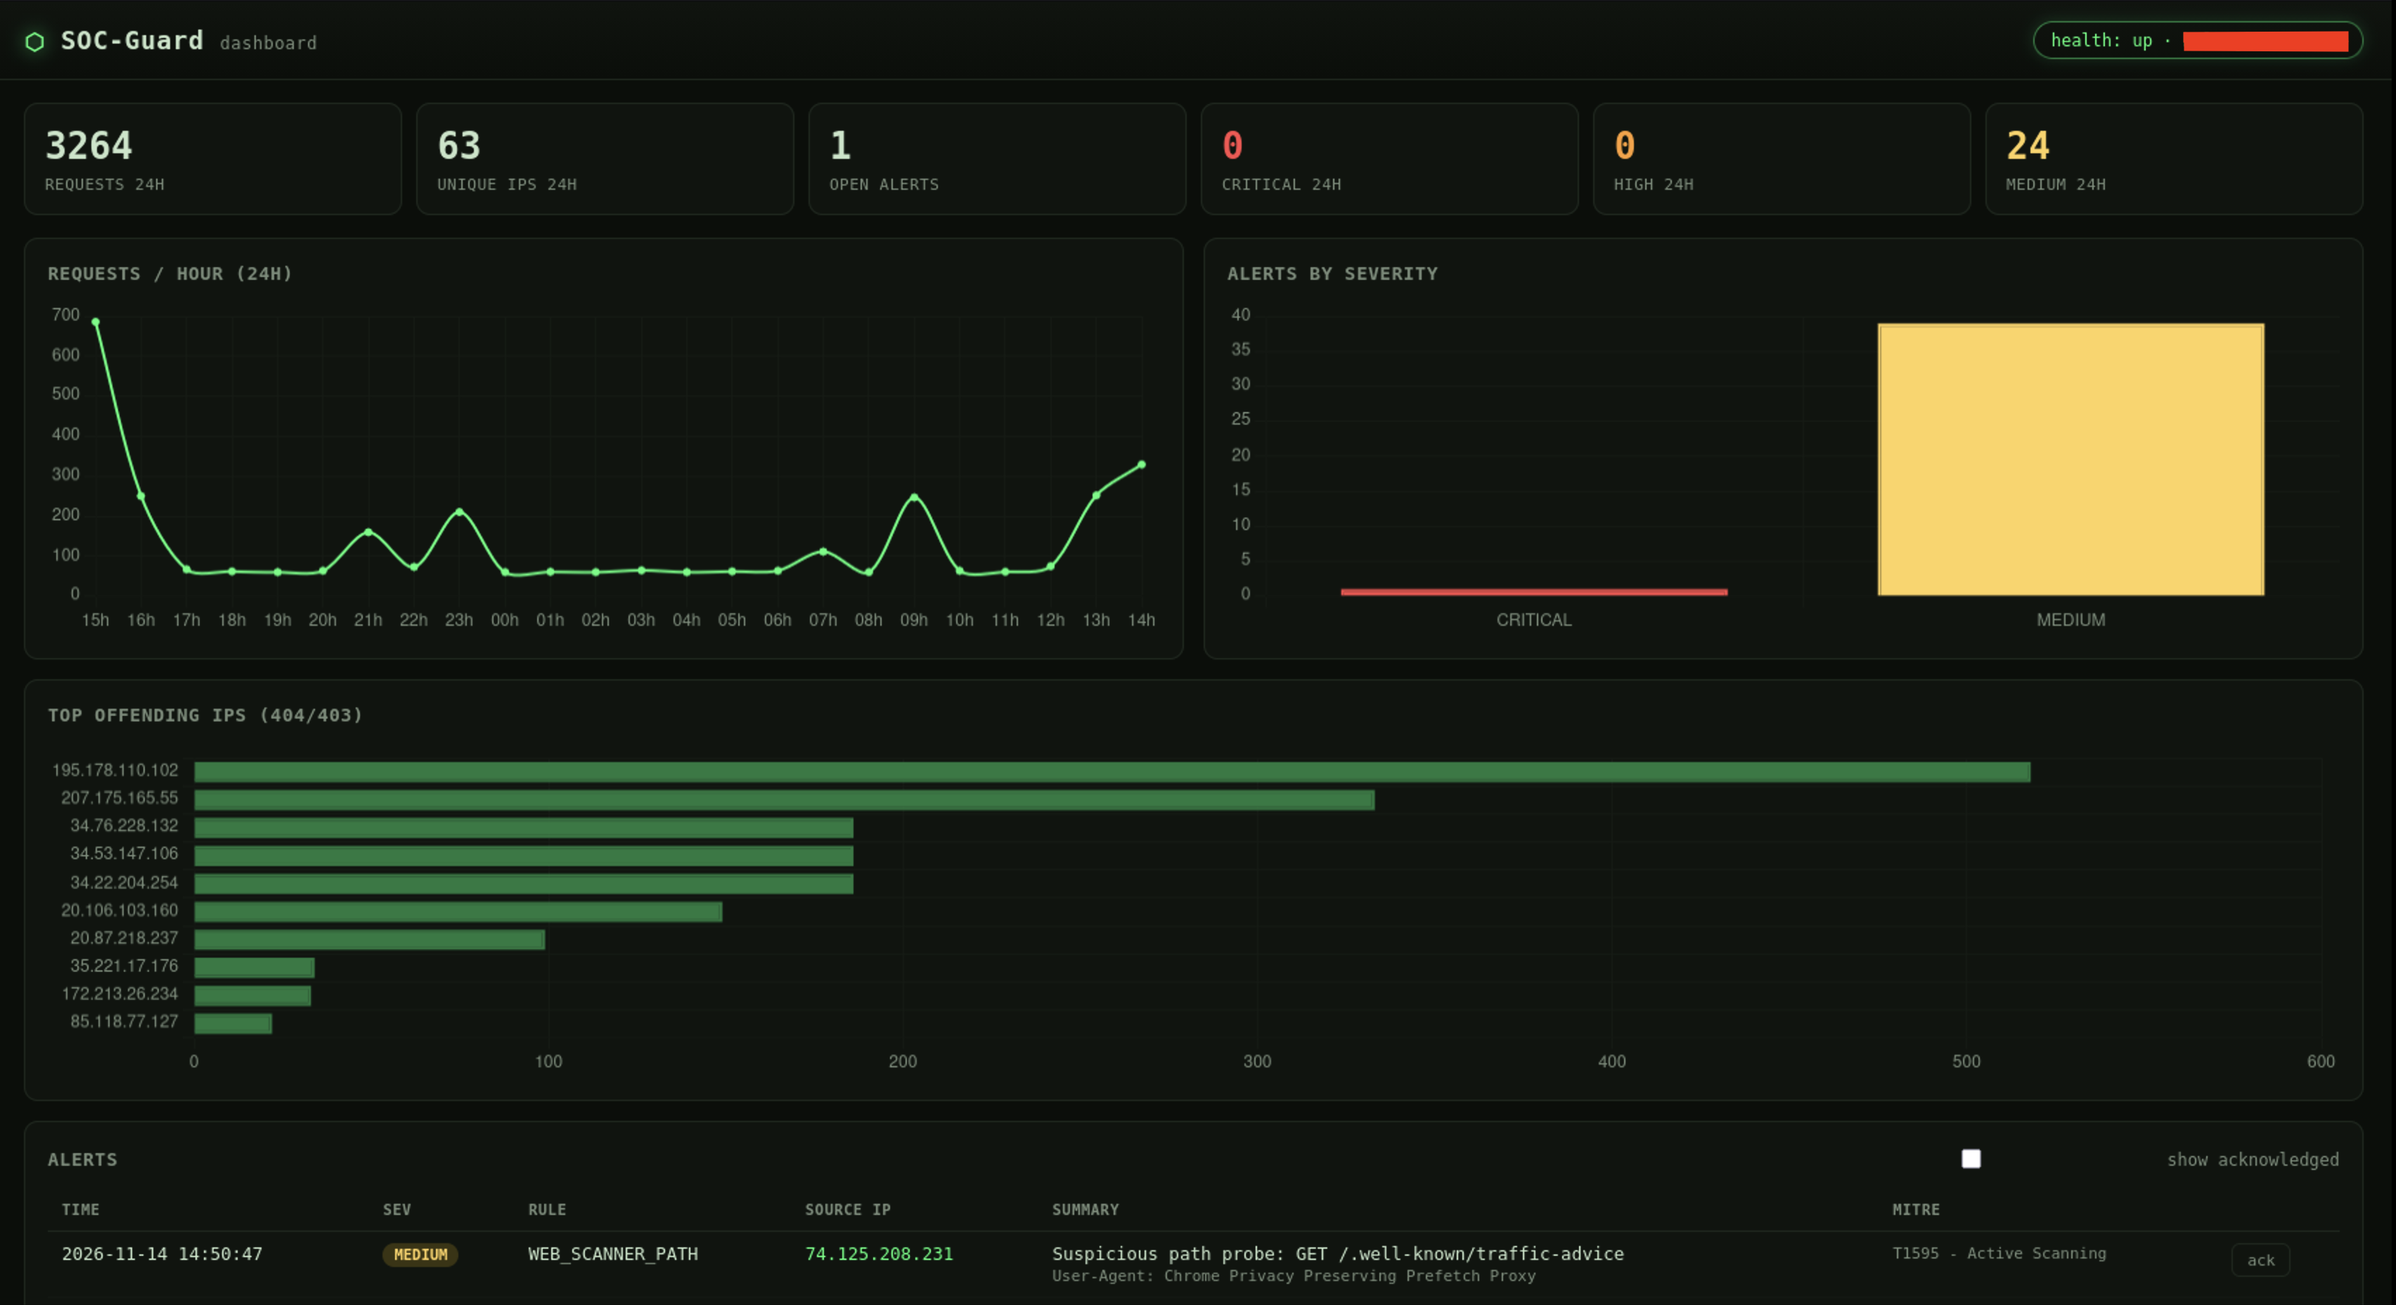
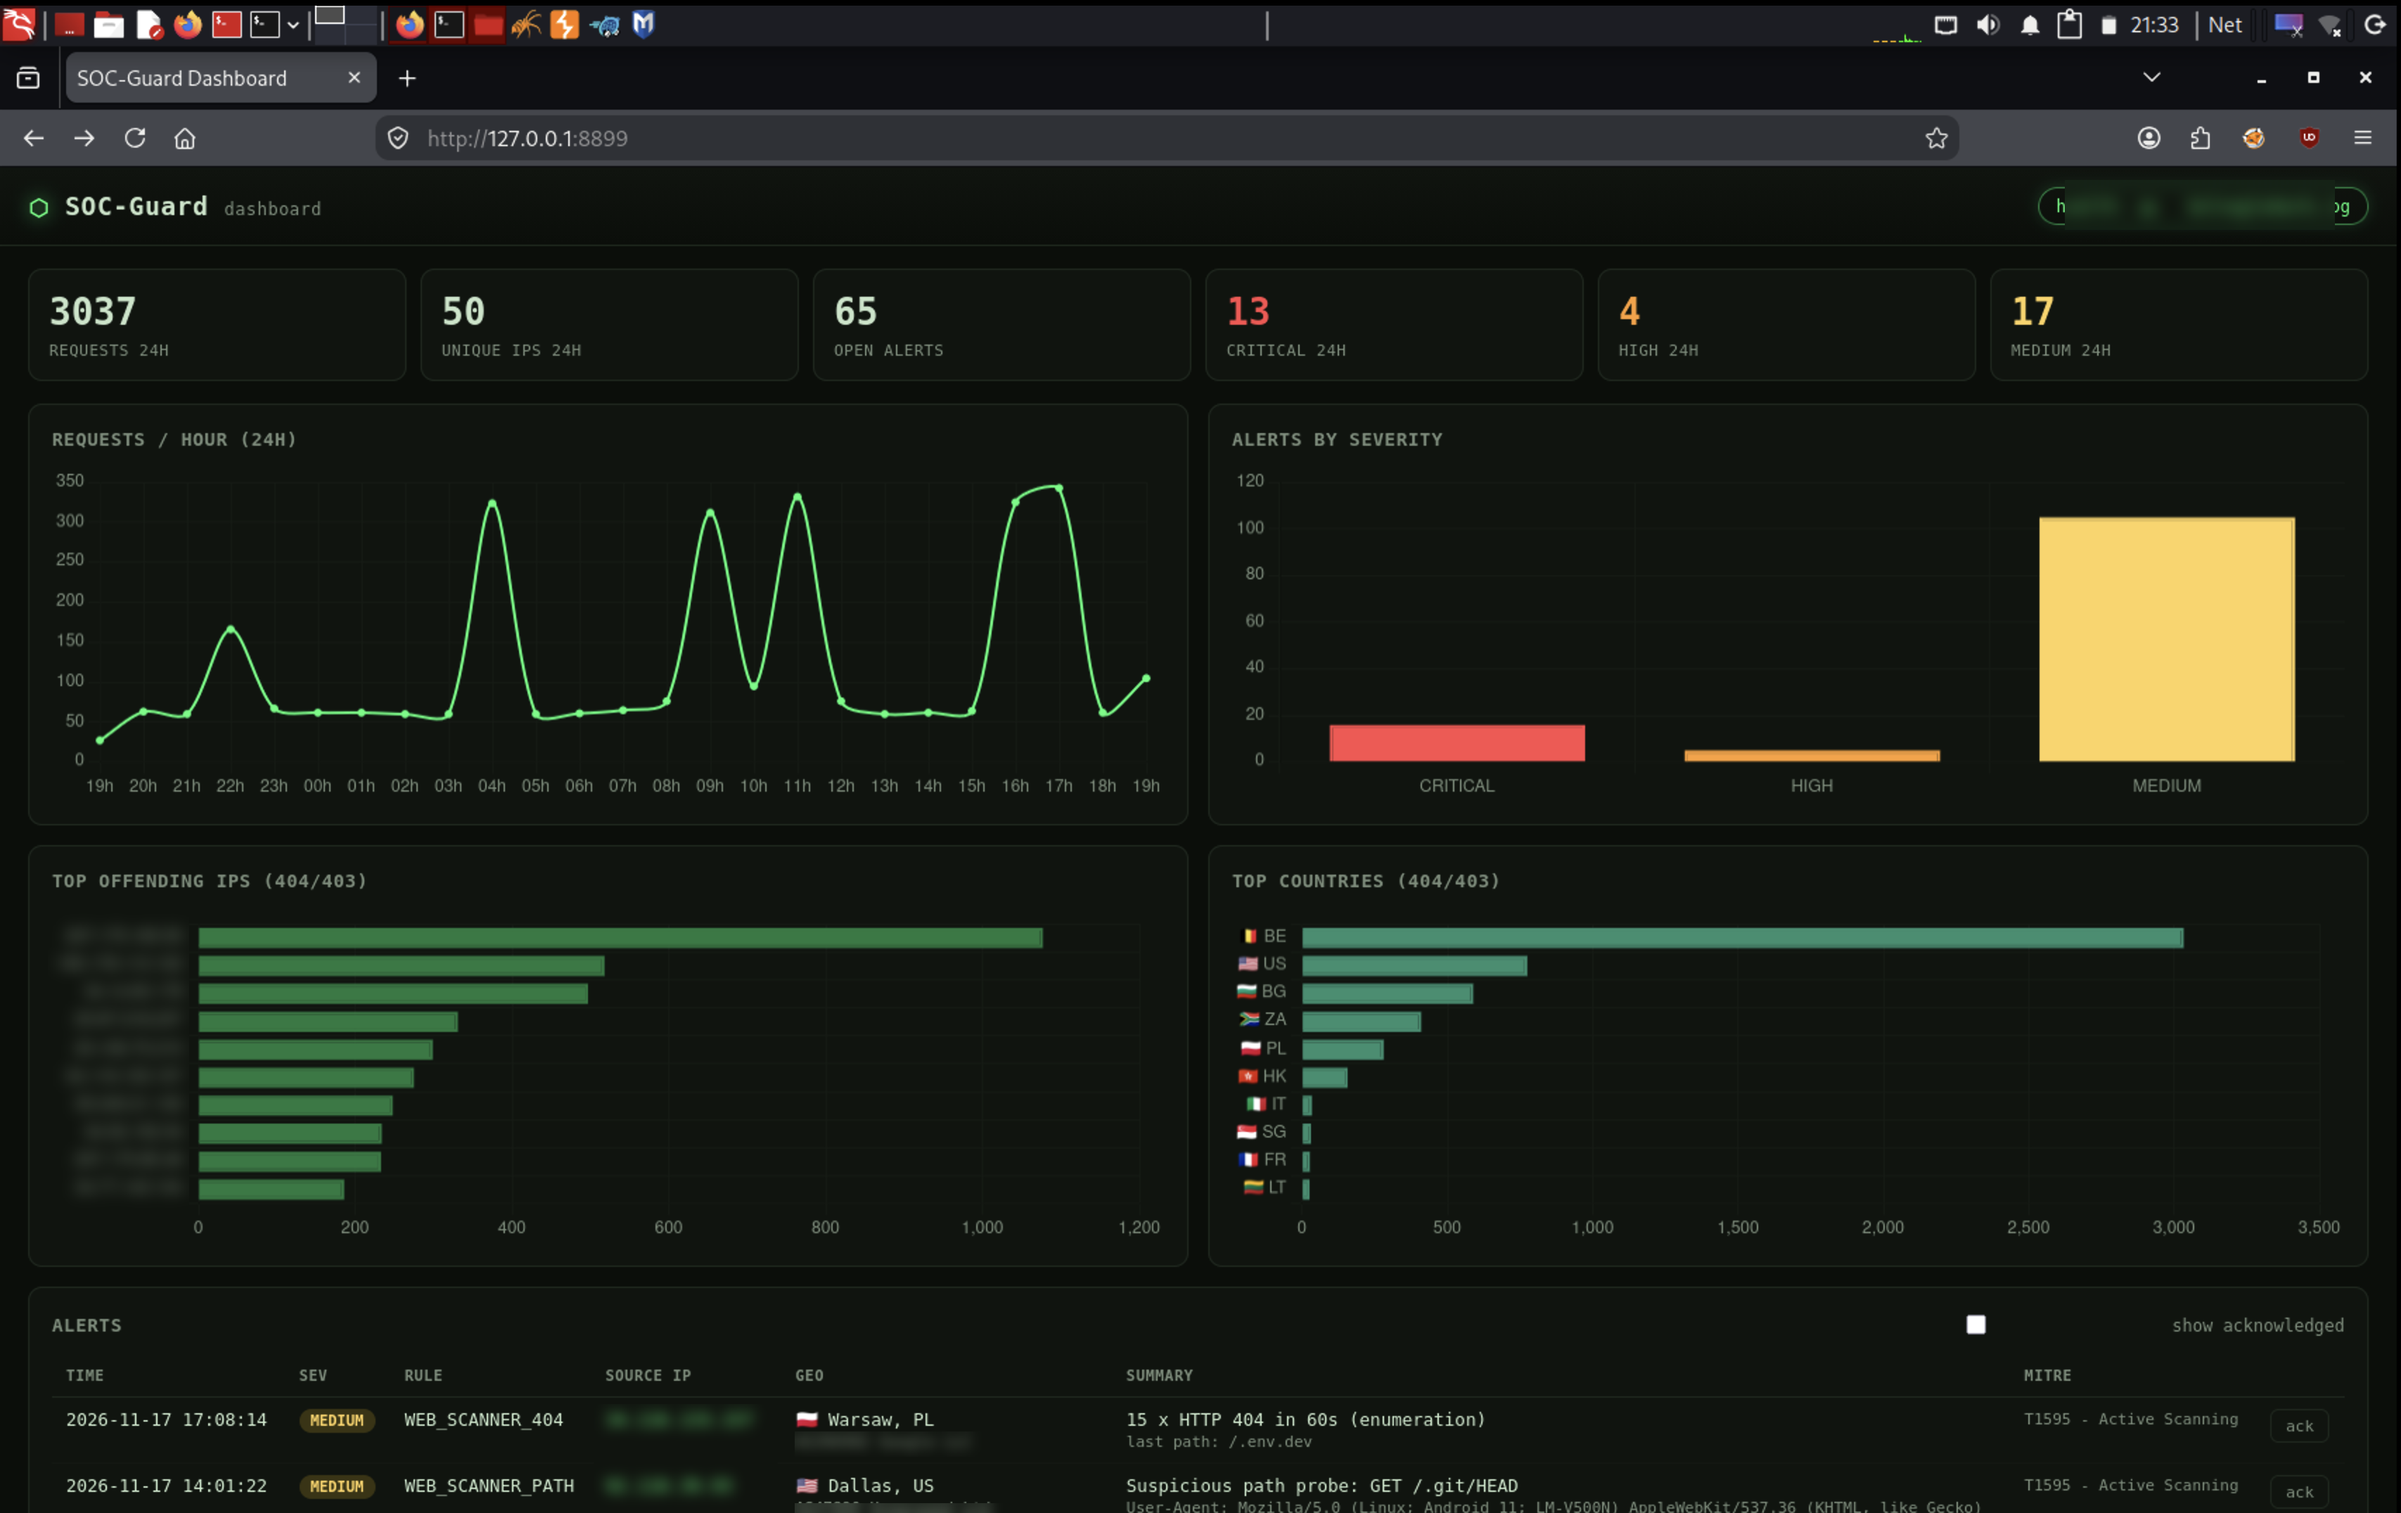
docs: add Telegram alert + dashboard screenshots to README
- README: embed a live Telegram alert (WEB_EXPLOIT/T1190 with GeoIP, plus
  FILE_INTEGRITY_DRIFT/T1565.001) under the architecture diagram, and a new
  Dashboard section with a screenshot showing the GeoIP country breakdown.
- Refresh dashboard/screenshot.png with the GeoIP-enabled view.

diff --git a/README.md b/README.md
@@ -38,6 +38,14 @@ alerts. A daily report and an external dead-man's-switch heartbeat round it out.
                  soc_report.py ──┴── cron 08:00 ─▶ Telegram daily report
 ```
 
+<p align="center">
+  <img src="assets/telegram-alert.png" alt="Real-time Telegram alerts: a SQLi probe (WEB_EXPLOIT, T1190) with GeoIP, and a file-integrity change (FILE_INTEGRITY_DRIFT, T1565.001)" width="420">
+</p>
+
+<p align="center">
+  <em>Real alerts from a live deployment: a SQLi probe caught at the edge, and a file changing on disk — each tagged with its MITRE technique and enriched with GeoIP.</em>
+</p>
+
 ## Features
 
 - **Zero dependencies** — Python 3 stdlib only; auditable, no supply-chain CVEs.
@@ -72,6 +80,17 @@ alerts. A daily report and an external dead-man's-switch heartbeat round it out.
 | `WEB_SCANNER_404` | MEDIUM | T1595 Active Scanning | > N × HTTP 404 / window / IP |
 
 Thresholds are configurable. Details & tuning: [docs/02-detection-rules.md](docs/02-detection-rules.md).
+
+## Dashboard
+
+A read-only FastAPI + HTMX dashboard bound to `127.0.0.1` and reached over an
+SSH tunnel — no public port, no new attack surface. Live alert table with
+one-click acknowledge, traffic and severity charts, top offending IPs, and a
+GeoIP country breakdown.
+
+![SOC-Guard dashboard](assets/dashboard.png)
+
+More: [dashboard/README.md](dashboard/README.md).
 
 ## Quick start
 
